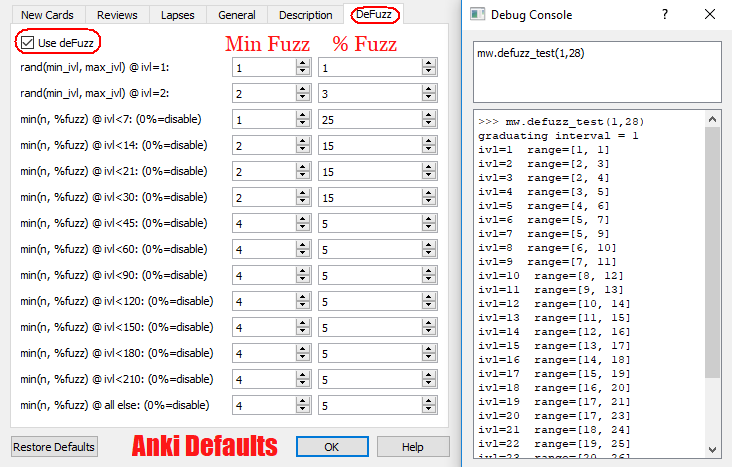
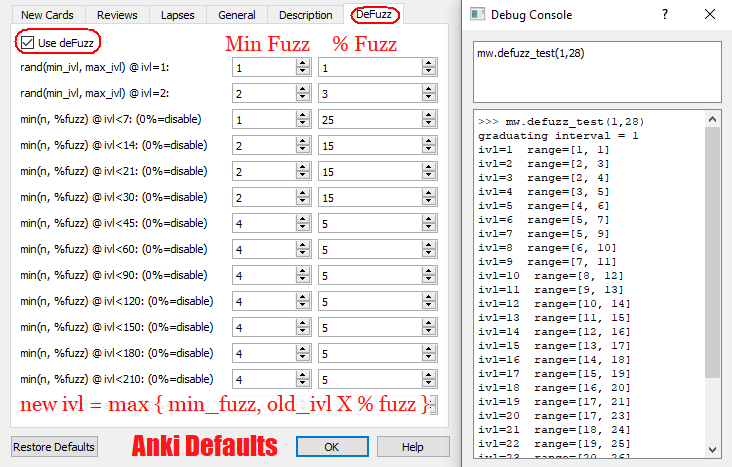
updated label texts

Changed region(s): [[0.0301, 0.8394, 0.6011, 0.8994]]

diff --git a/src/defuzz/menuopt.py b/src/defuzz/menuopt.py
@@ -2,7 +2,7 @@
 # Copyright: (C) 2018-2019 Lovac42
 # Support: https://github.com/lovac42/DeFuzz
 # License: GNU GPL, version 3 or later; http://www.gnu.org/copyleft/gpl.html
-# Version: 0.0.2
+# Version: 0.0.3
 
 
 import aqt
@@ -25,6 +25,13 @@ def dconfsetupUi(self, Dialog):
     self.defuzz = QtWidgets.QCheckBox(self.tab_3)
     self.defuzz.setText(_('Use deFuzz'))
     layoutDF.addWidget(self.defuzz, r, 0, 1, 1)
+
+    label=QtWidgets.QLabel(tabDF)
+    label.setText(_("MIN_FUZZ"))
+    layoutDF.addWidget(label, r, 1, 1, 1)
+    label=QtWidgets.QLabel(tabDF)
+    label.setText(_("% FUZZ (0 to disabled)"))
+    layoutDF.addWidget(label, r, 2, 1, 1)
     r+=1
 
     self.defuzz_perc=[]
@@ -32,11 +39,11 @@ def dconfsetupUi(self, Dialog):
     for L in FUZZ_LEVELS:
         label=QtWidgets.QLabel(tabDF)
         if not L[0]:
-            label.setText(_("min(n, %fuzz) @ all else: (0%=disable)"))
+            label.setText(_("All Else:"))
         elif L[0] <=3: #looks weird...
-            label.setText(_("rand(min_ivl, max_ivl) @ ivl=%d:"%(L[0]-1)))
+            label.setText(_("[min_IVL] [max_IVL] @ IVL=%d:"%(L[0]-1)))
         else:
-            label.setText(_("min(n, %%fuzz) @ ivl<%d: (0%%=disable)"%L[0]))
+            label.setText(_("@ IVL < %d:"%L[0]))
         layoutDF.addWidget(label, r, 0, 1, 1)
 
         mFuzz=QtWidgets.QSpinBox(tabDF)
@@ -49,7 +56,6 @@ def dconfsetupUi(self, Dialog):
         perc=QtWidgets.QSpinBox(tabDF)
         perc.setMinimum(0)
         perc.setMaximum(666)
-        perc.setMaximumWidth(120)
         self.defuzz_perc.append(perc)
         layoutDF.addWidget(perc, r, 2, 1, 1)
         r+=1
